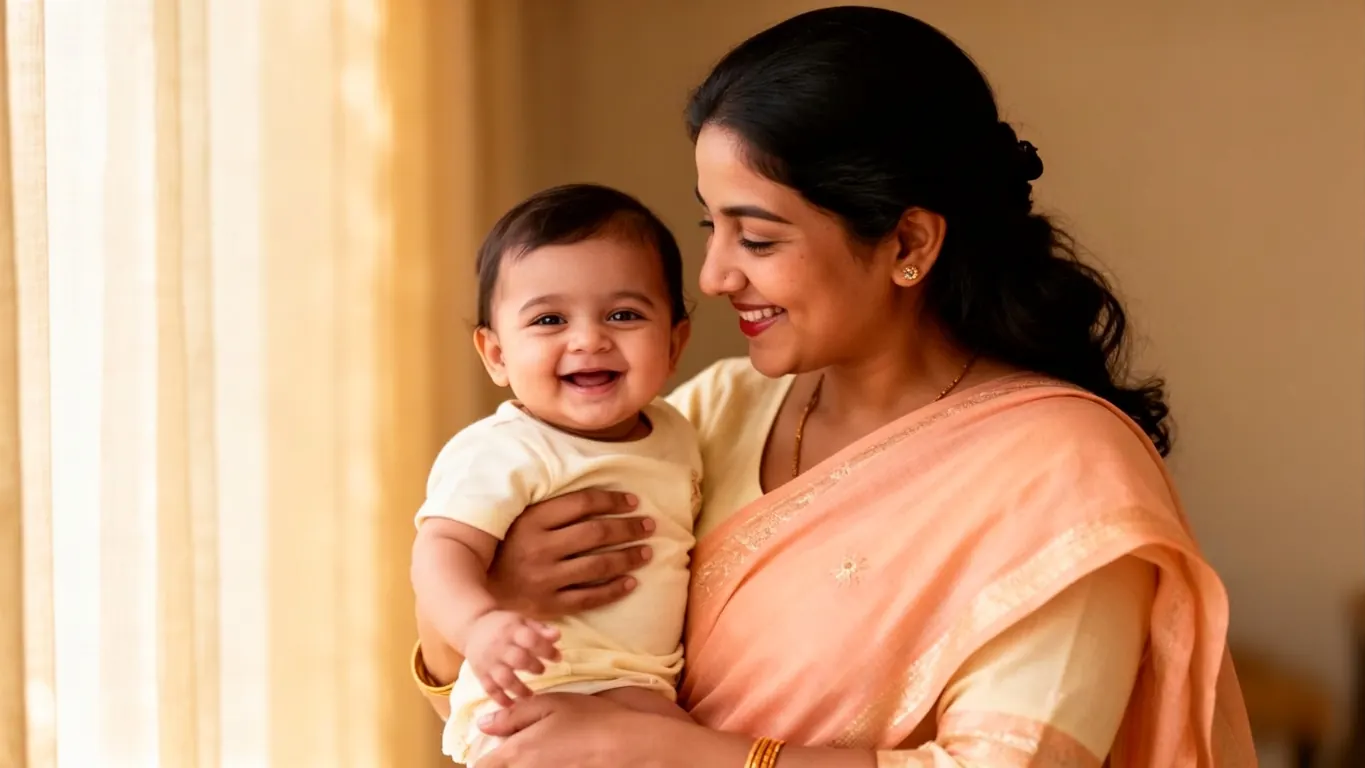
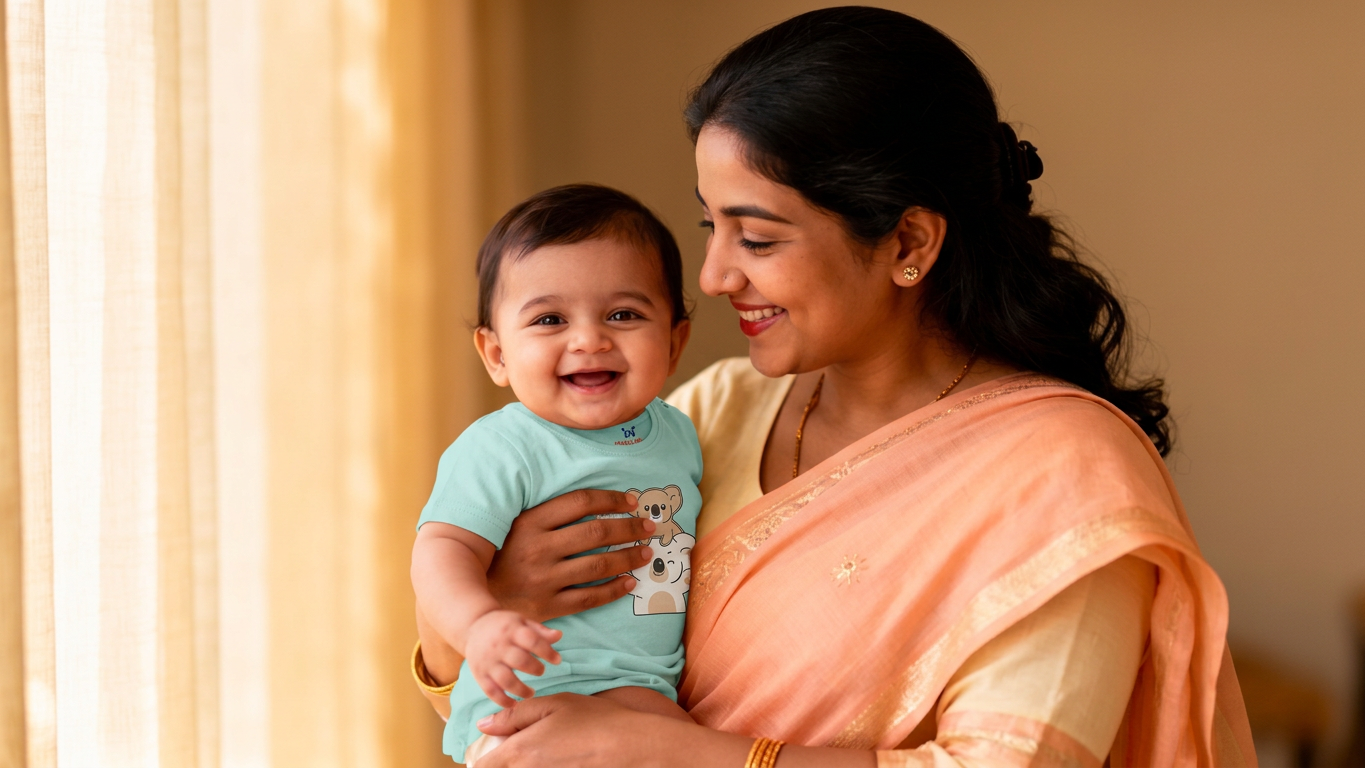
Update hero carousel images and wire Watch & Shop reels to local videos.
Pull hero slides from design reference site and bundle reel MP4s for self-hosted playback instead of Lovable CDN placeholders.

Changed region(s): [[0.2769, 0.5, 0.5231, 1.0], [0.6462, 0.3438, 0.6769, 0.375]]

diff --git a/src/data/reels.ts b/src/data/reels.ts
@@ -1,17 +1,17 @@
-import reelRomper from "@/assets/reel-romper.mp4.asset.json";
-import reelDress from "@/assets/reel-dress.mp4.asset.json";
-import reelCardigan from "@/assets/reel-cardigan.mp4.asset.json";
-import reelDayset from "@/assets/reel-dayset.mp4.asset.json";
-import reelInfantGirl from "@/assets/reel-infant-girl.mp4.asset.json";
+import reelRomper from "@/assets/videos/reel-romper.mp4";
+import reelDress from "@/assets/videos/reel-dress.mp4";
+import reelCardigan from "@/assets/videos/reel-cardigan.mp4";
+import reelDayset from "@/assets/videos/reel-dayset.mp4";
+import reelInfantGirl from "@/assets/videos/reel-infant-girl.mp4";
 
 export type WatchReel = { video: string; slug: string };
 
 export const watchReels: WatchReel[] = [
-  { video: reelRomper.url, slug: "terracotta-petal-romper" },
-  { video: reelDress.url, slug: "rose-blossom-dress" },
-  { video: reelCardigan.url, slug: "pearl-knit-cardigan" },
-  { video: reelDayset.url, slug: "buttercup-day-set" },
-  { video: reelInfantGirl.url, slug: "meadow-sleepsuit" },
+  { video: reelRomper, slug: "terracotta-petal-romper" },
+  { video: reelDress, slug: "rose-blossom-dress" },
+  { video: reelCardigan, slug: "pearl-knit-cardigan" },
+  { video: reelDayset, slug: "buttercup-day-set" },
+  { video: reelInfantGirl, slug: "meadow-sleepsuit" },
 ];
 
 export function getReelForSlug(slug: string | undefined): WatchReel | undefined {
